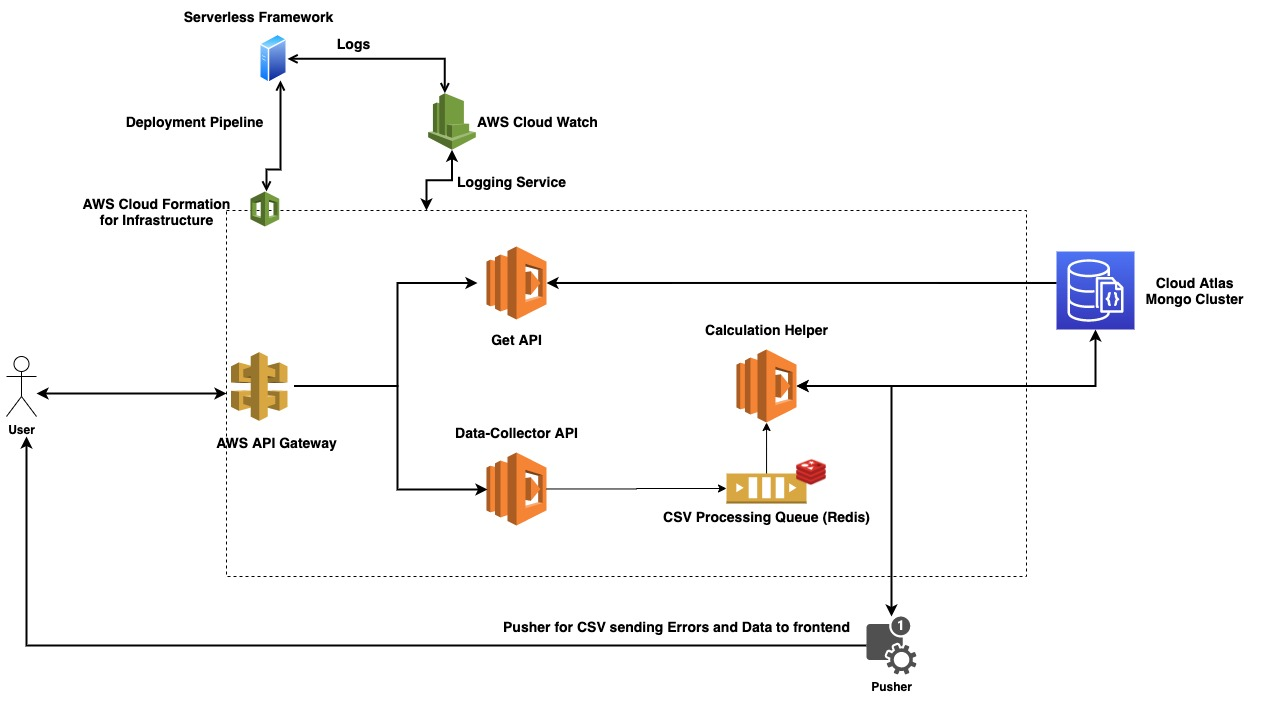
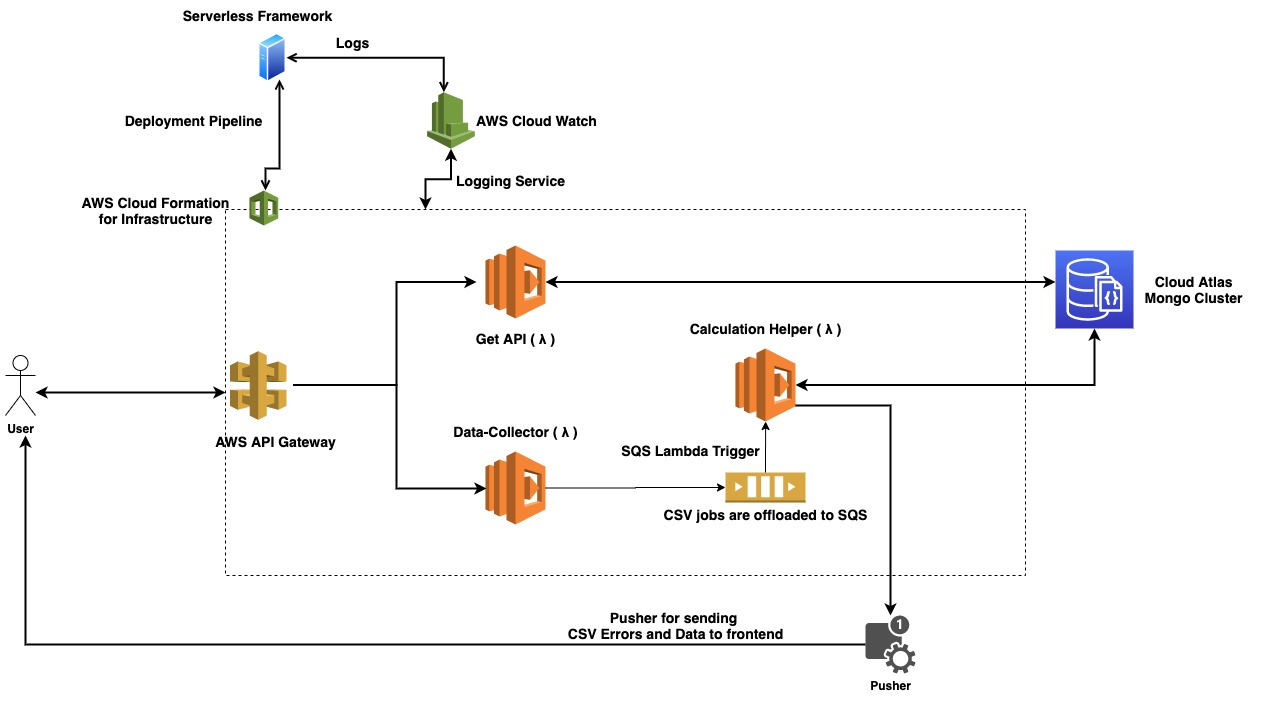
docs: added new learnings and screnshots

diff --git a/README.md b/README.md
@@ -19,6 +19,8 @@
 1. Goto [docs/index.html](./docs/index.html)
 2. Serve the index.html via a http server or open it using chrome
 3. open the console for the output from pusher
+ 
+ <img src="docs/pusher.png">
 
 ### Pusher Errors 
 Sample error thrown while formatting the CSV
@@ -193,5 +195,11 @@ Skip if you have already setup the following.
     * Global Error handling module.
 
 3. Problems faced
- There was a memory leak issue related to the event emitter. As a solution, had to increase the emitter limit
+ There was a memory leak issue related to the event emitter. As a solution, had to increase the emitter limit.
+ But since it was not a long term solution, the redis queue, the event emitter was replaced by AWS SQS infrastructure
  <img src="docs/logs.jpeg">
+ 
+### New 
+Once the Lambda function returns, the function literally freezes. Therefore all the ongoing operations will not
+ continue, sometimes ended up throwing unhandled promise rejections(Specially with Bull queue). Therefore there should
+  be a sync lambda and a async lambda chained together to execute async /background operations.
